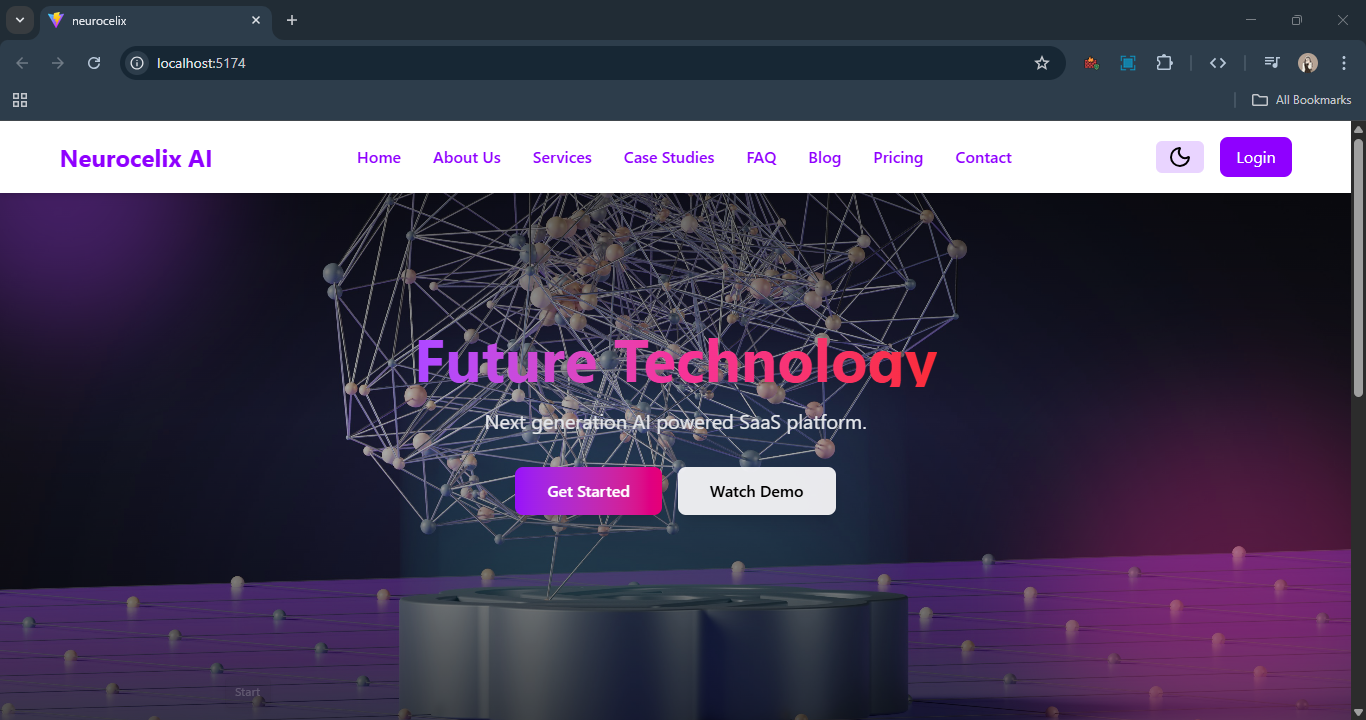
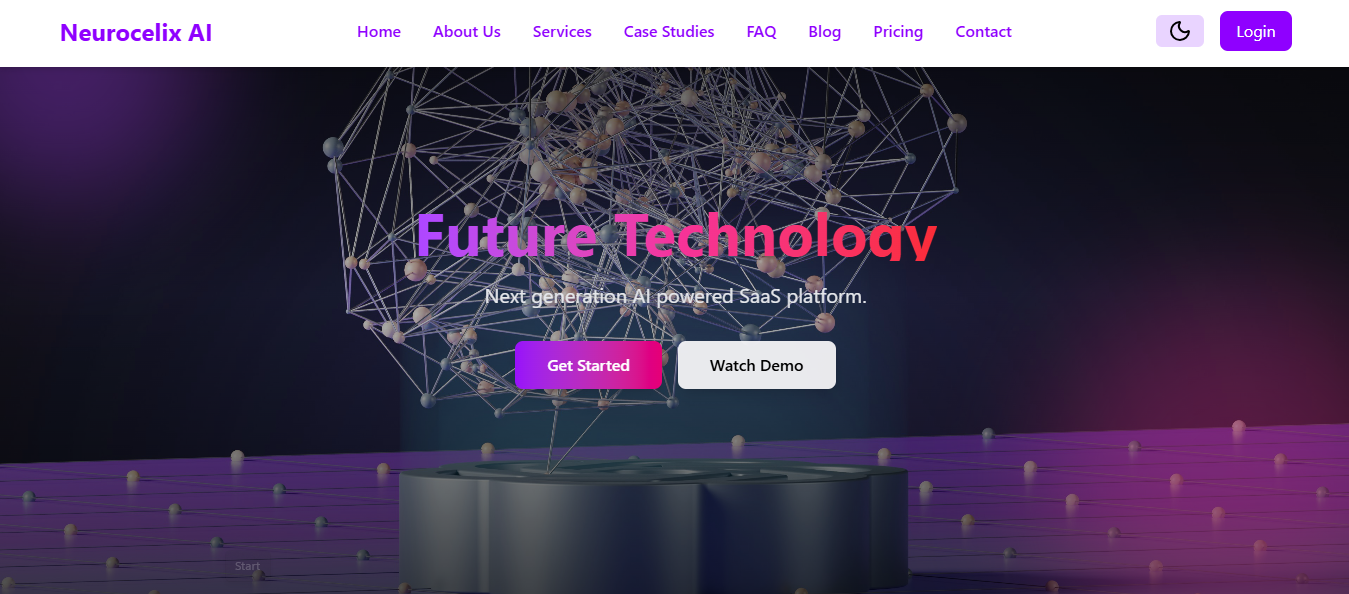
updated code

diff --git a/src/components/About.jsx b/src/components/About.jsx
@@ -130,14 +130,18 @@ function About({ DarkMode }) {
             </div>
           </div>
           {/* ✅ */}
-          <button
+
+          <a
+            href="https://www.linkedin.com/in/noor-fatima-zafar-63a609318/"
+            target="_blank"
+            rel="noopener noreferrer"
             className={`w-full sm:w-auto inline-flex items-center justify-center py-2 px-4 sm:px-6 hover:shadow-[0_0_40px_rgb(255,165,0,0.7)]
-          rounded-full text-base sm:text-lg font-semibold transition-all duration-300 transform  border-2 border-orange-500 ${DarkMode ? "text-white bg-orange-500/10" : "text-gray-800 bg-white/90"}`}
-            data-aos="fade-up"
-            data-aos-delay="800"
+  rounded-full text-base sm:text-lg font-semibold transition-all duration-300 transform border-2 border-orange-500 ${
+    DarkMode ? "text-white bg-orange-500/10" : "text-gray-800 bg-gray700"
+  }`}
           >
             Learn More
-          </button>
+          </a>
         </article>
       </div>
     </section>

diff --git a/src/components/Hero.jsx b/src/components/Hero.jsx
@@ -113,7 +113,7 @@ const Hero = ({ DarkMode }) => {
                 </a>
                 <a href="#contact" className="w-full sm:w-auto">
                   <button
-                    className={`w-full sm:w-auto inline-flex items-center justify-center text-white  border-0 py-3 px-8 hover:shadow-[0_0_40px_rgba(255,165,0,0.7)] rounded-full text-base sm:text-lg font-semibold transition-all duration-300 transform ${theme.buttonSecondary} `}
+                    className={`w-full sm:w-auto inline-flex items-center justify-center  border-0 py-3 px-8 hover:shadow-[0_0_40px_rgba(255,165,0,0.7)] rounded-full text-base sm:text-lg font-semibold transition-all duration-300 transform ${theme.buttonSecondary} `}
                   >
                     <Mail className="w-4 h-4 sm:h-5 sm:w-5 mr-2" />
                     Contact Me

diff --git a/src/index.css b/src/index.css
@@ -27,3 +27,26 @@ html {
     39% 35%
   );
 }
+/* Chrome, Edge, Safari */
+::-webkit-scrollbar {
+  width: 10px;
+}
+
+::-webkit-scrollbar-track {
+  background: #1f2937; /* dark background */
+}
+
+::-webkit-scrollbar-thumb {
+  background-color: #f97316; /* orange-500 */
+  border-radius: 10px;
+}
+
+::-webkit-scrollbar-thumb:hover {
+  background-color: #ea580c; /* orange-600 */
+}
+
+/* Firefox */
+* {
+  scrollbar-width: thin;
+  scrollbar-color: #f97316 #1f2937;
+}

diff --git a/src/components/Skills.jsx b/src/components/Skills.jsx
@@ -56,7 +56,7 @@ const Skills = ({ DarkMode }) => {
       name: "GitHub",
       icon: "https://cdn.jsdelivr.net/gh/devicons/devicon/icons/github/github-original.svg",
       level: 95,
-      color: "from-gray-500 to-gray-700",
+      color: "from-gray-500 to-gray-300",
     },
     {
       name: "Tailwind CSS",

diff --git a/src/components/Navbar.jsx b/src/components/Navbar.jsx
@@ -9,6 +9,7 @@ export const Navbar = ({ DarkMode, toggleDarkMode }) => {
   const navItems = [
     { name: "Home", link: "#home" },
     { name: "About", link: "#about" },
+    { name: "Skills", link: "#skills" },
     { name: "Projects", link: "#projects" },
     { name: "Contact", link: "#contact" },
   ];
